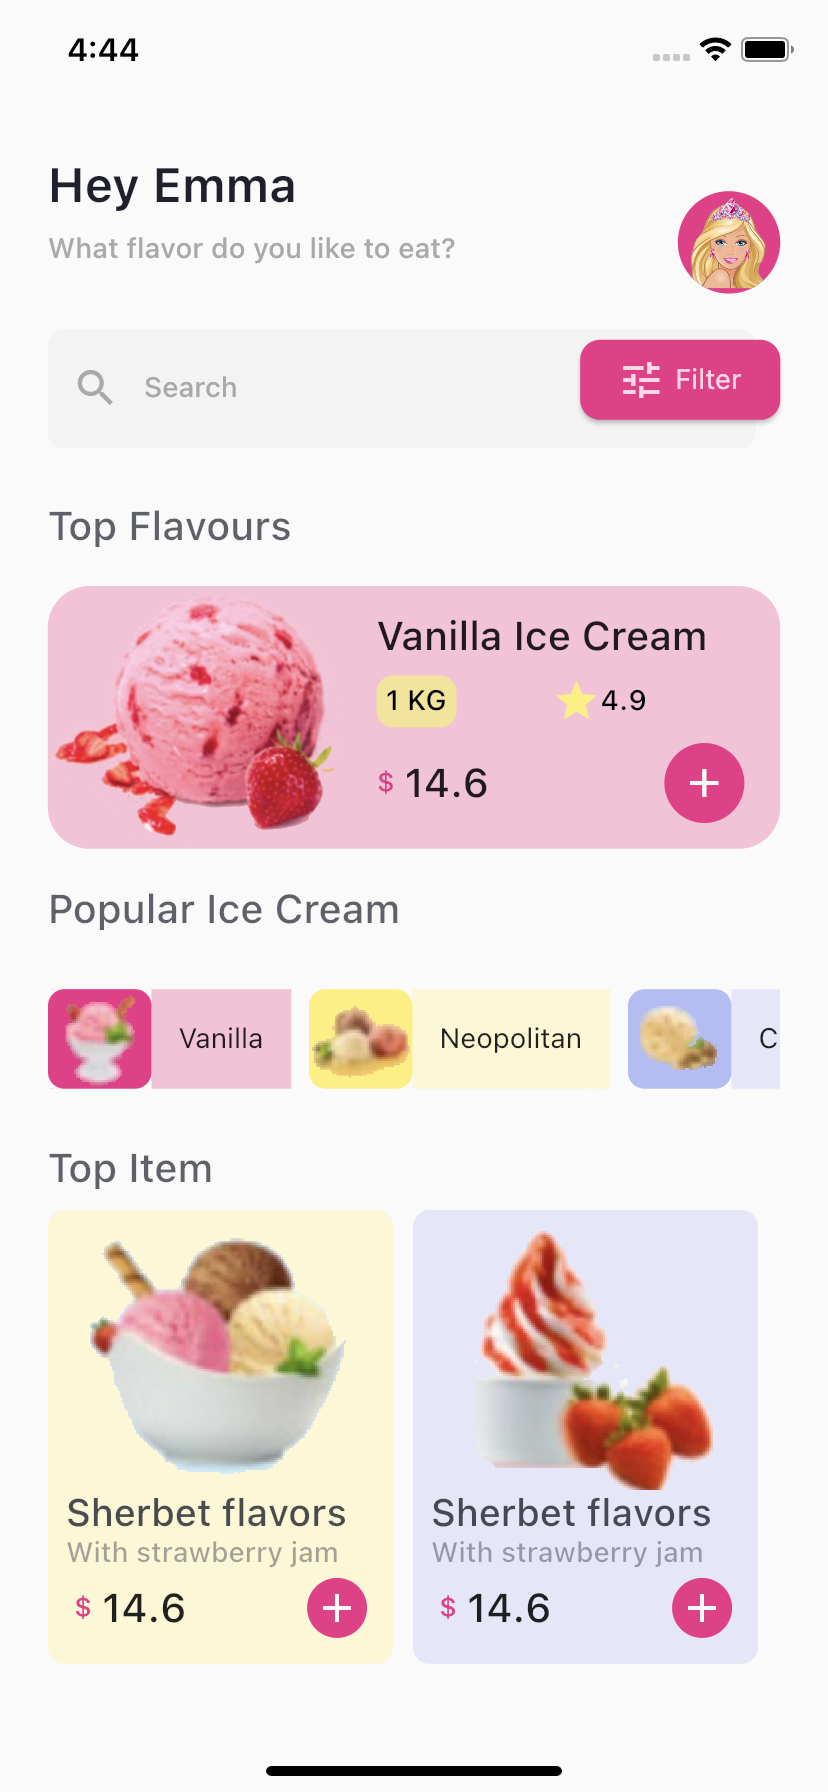
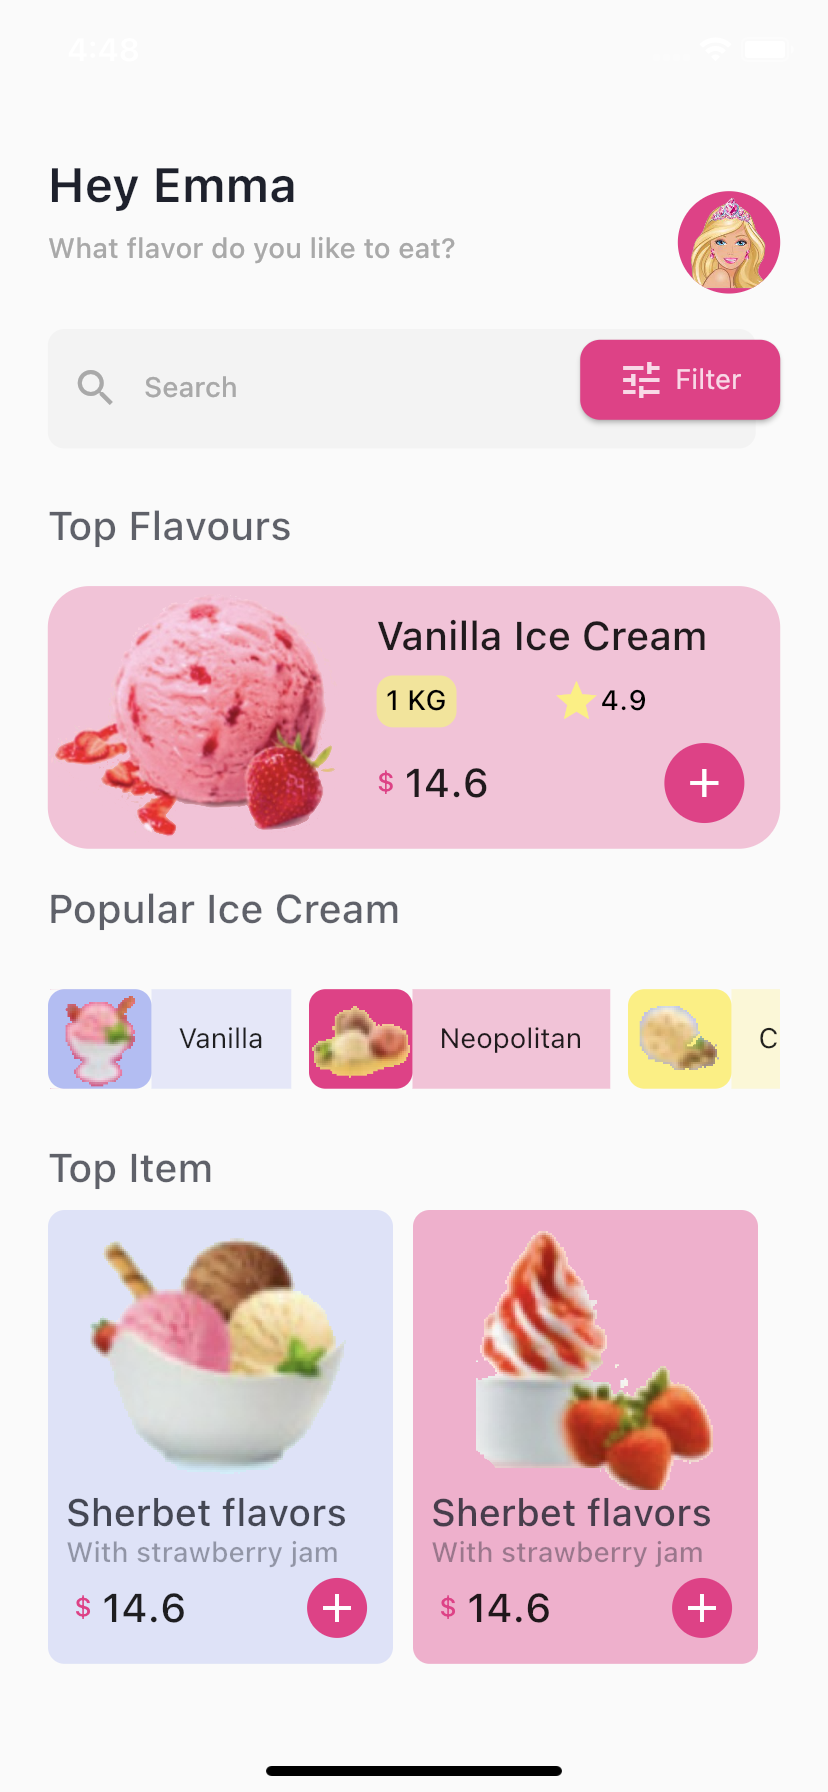
refactor: changed screenshots/screenshot1.png

diff --git a/lib/core/constants/color_constants.dart b/lib/core/constants/color_constants.dart
@@ -31,7 +31,11 @@ class ColorConstants {
   static Color paleRose = const Color.fromRGBO(236, 198, 211, 1);
 
   /// Popular Ice Cream Card Colors
-  static List<Color> softColors = [deepCerise, witchHaze, paleCornflowerBlue];
+  static List<Color> softColors = [
+    paleCornflowerBlue,
+    deepCerise,
+    witchHaze,
+  ];
 
   /// Popular Ice Cream Card Colors
   Color get randomColor => softColors[Random().nextInt(softColors.length)];

diff --git a/lib/presentation/widgets/home_view_widgets/card/top_item_card.dart b/lib/presentation/widgets/home_view_widgets/card/top_item_card.dart
@@ -24,7 +24,7 @@ class TopItemCard extends StatelessWidget {
       width: context.width / 2.4,
       decoration: BoxDecoration(
         borderRadius: context.lowBorderRadius,
-        color: ColorConstants().randomColor.withOpacity(0.3),
+        color: ColorConstants.softColors[index].withOpacity(0.4),
       ),
       child: Padding(
         padding: context.paddingLow,
